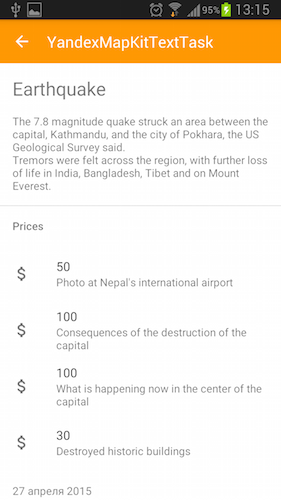
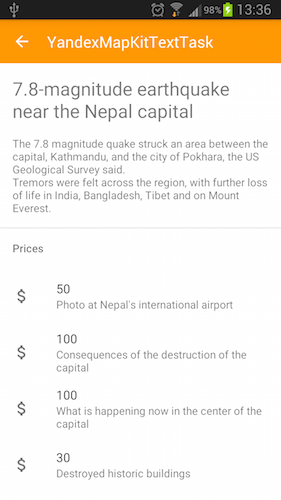
Updated text in TaskInfoActivity and updated screenshot

diff --git a/app/src/main/java/pro/vylgin/yandexmapkittexttask/activity/TaskInfoActivity.java b/app/src/main/java/pro/vylgin/yandexmapkittexttask/activity/TaskInfoActivity.java
@@ -88,7 +88,7 @@ public class TaskInfoActivity extends AppCompatActivity {
     }
 
     private void showTaskInfo(Task task) {
-        titleTextView.setText(task.getTitle());
+        titleTextView.setText(task.getText());
         descriptionTextView.setText(task.getLongText());
 
         initPriceLinearLayout(task);
